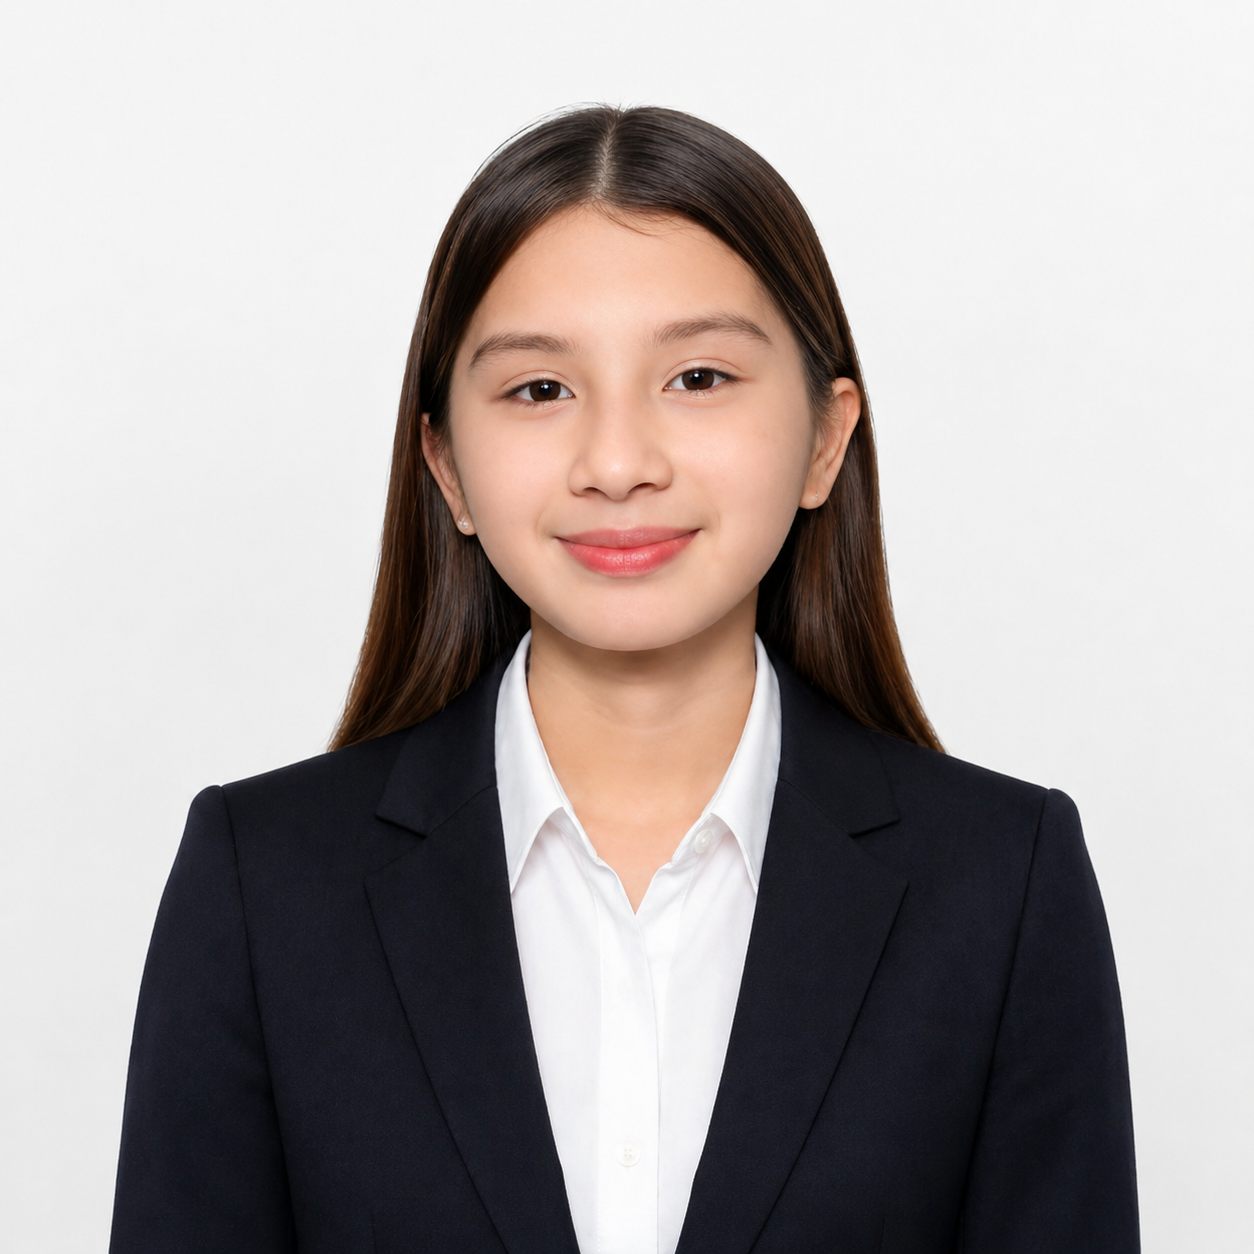
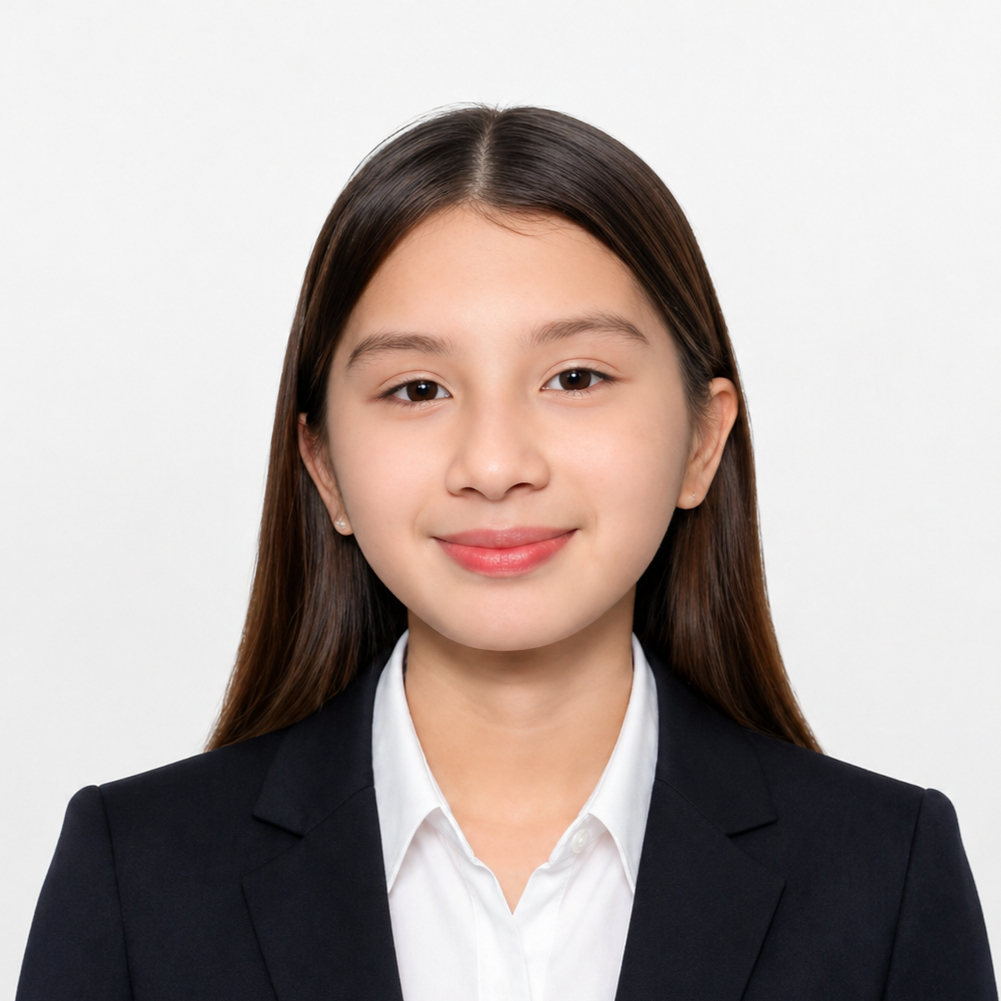
remove footer styles and fix text casing for VSCode and JavaScript

diff --git a/tech-stack.html b/tech-stack.html
@@ -108,13 +108,13 @@
             </div>
 
             <div class="techstack-images frontend ">
-                <img src="pictures/javascript-logo.png" alt="Javascript Logo">
-                <h3>Javascript</h3>
+                <img src="pictures/javascript-logo.png" alt="JavaScript Logo">
+                <h3>JavaScript</h3>
             </div>
 
             <div class="techstack-images devtools">
-                <img src="pictures/visual-studio-code-logo.png" alt="Visual Studio Code Logo">
-                <h3>Visual Studio Code</h3>
+                <img src="pictures/visual-studio-code-logo.png" alt="Visual Studio Logo">
+                <h3>Vscode</h3>
             </div>
 
             <div class="techstack-images devtools">

diff --git a/style.css b/style.css
@@ -15,16 +15,7 @@ body {
 
 main {
     flex: 1;
-}
-
-.footer {
-    font-family: 'Inter', sans-serif;
-    background-color: #404040;
-    color: #fff;
-    text-align: center;
-    padding: 20px 10px;
-    font-size: 14px;
-    margin-top: 30px;
+    z-index: 1;
 }
 
 /* navigation bar */
@@ -113,7 +104,7 @@ main {
     left: 0;
     width: 100%;
     height: 100%;
-    z-index: -1;
+    z-index: 0;
     background-color: #2B2B2B;
 }
 
@@ -122,7 +113,7 @@ main {
     flex-direction: column;
     justify-content: center;
     align-items: center;
-    min-height: calc(100vh - 75px);
+    height: 100vh;
 }
 
 .mainnavdiv img {
